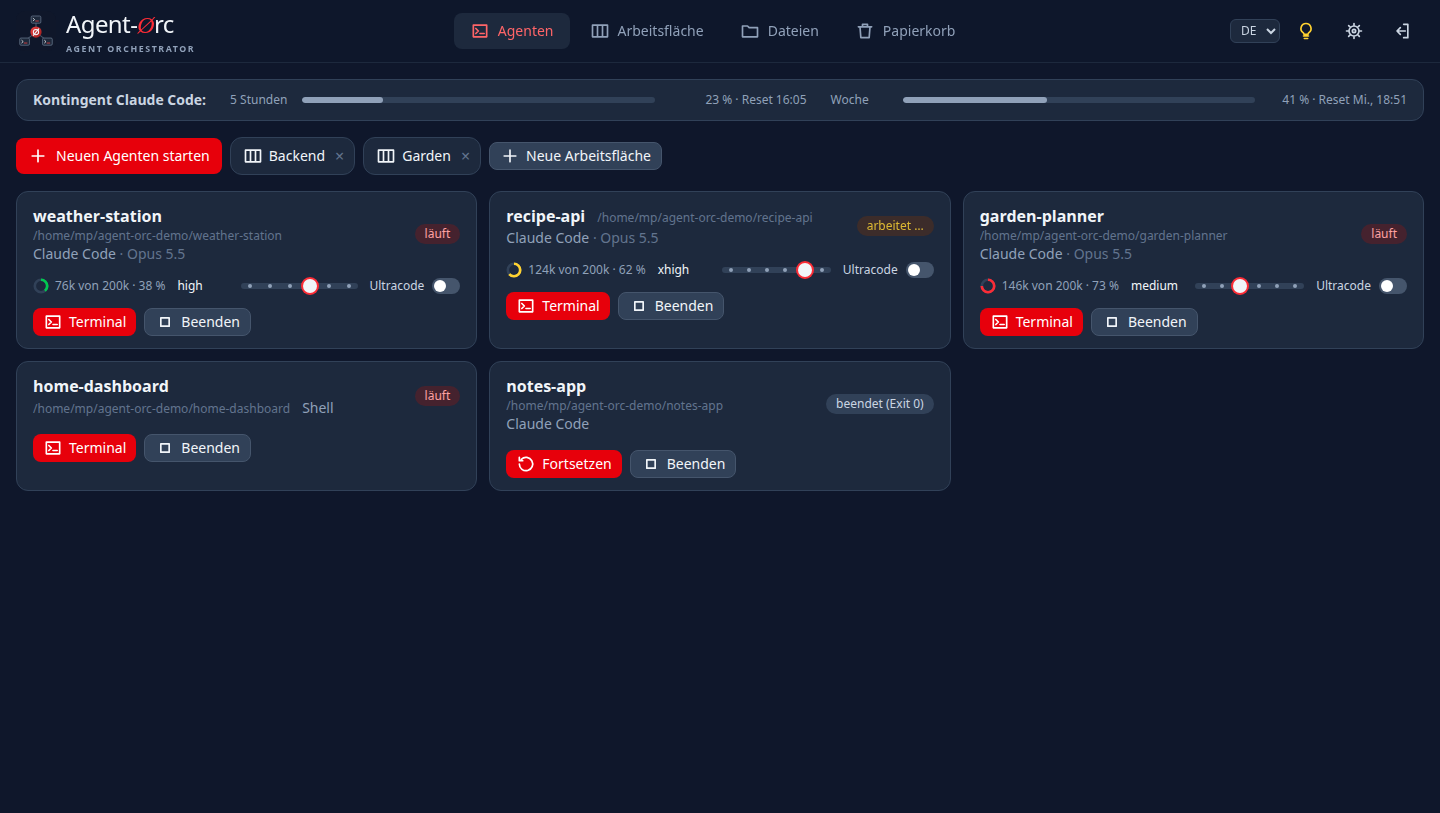
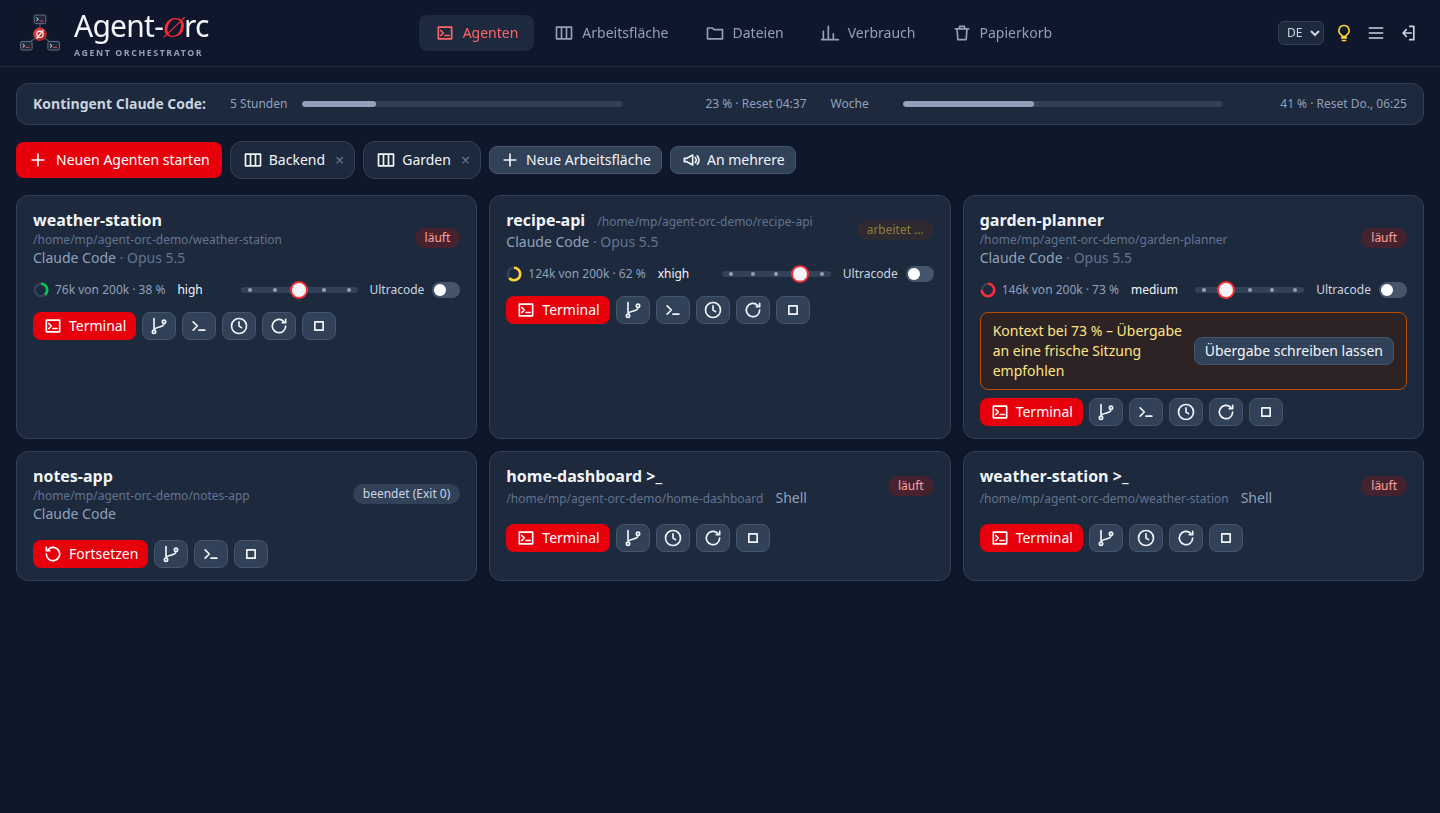
docs: Readme-Screenshots und Texte auf den aktuellen Stand
Neue Screenshots (Übersicht mit Knopfleiste und Terminal-Karten,
Arbeitsfläche mit Agent und Terminal nebeneinander, Handy mit ⋮-Menü),
dazu Freigaben auf der Karte, Profile mit Modellwahl und das ⋮-Menü
am Handy; die Sondertasten-Zeile neu umbrochen.

Claude-Session: https://claude.ai/code/session_01FfsBdbdqiuSRRkX2M1bLzB

diff --git a/README.md b/README.md
@@ -35,6 +35,12 @@ detaches: the agents keep working, and you pick them up again from any device.
 - Notifications on your phone or desktop when an agent is done or waits for a permission or an
   answer (Web Push, switched on per device); tapping one opens the agent.
 - The permission mode an agent starts in, per project (ask, edit, auto, plan; auto by default).
+  When an agent asks for permission, its card shows the command with “Allow” and “Deny”; the
+  first answer counts, on the card or in the terminal.
+- Profiles with a choice of models: through a small start script, Claude Code also runs on
+  local models (e.g. vLLM or llama-swap) or with other providers. The start dialog then offers
+  the models and their reasoning levels, with a note per model (such as how long it is free to
+  use); the comments of the default config hold an example.
 - An agent can start in a git worktree of its own (a second working copy on a new branch), so
   two agents can work on one project; removed again once it has ended, without losing work.
 - Restart (⟳) with the conversation resumed, schedule prompts for later, and carry on by
@@ -51,10 +57,11 @@ detaches: the agents keep working, and you pick them up again from any device.
 - Shortcuts on a computer: Alt+Shift+1 … 9 for the columns, Alt+Shift+← / → for the
   workspaces.
 - On a phone one column at a time: a sideways swipe in the terminal brings the next; a
-  fullscreen shows terminal and input field only, and the extra keys fold away.
+  fullscreen shows terminal and input field only, the extra keys fold away, and a terminal's
+  actions sit behind ⋮.
 
 <p align="center">
-  <img src="docs/screenshots/workspace-en.png" alt="Workspace with two agents side by side" width="860">
+  <img src="docs/screenshots/workspace-en.png" alt="Workspace with an agent and its terminal side by side" width="860">
 </p>
 
 **Terminal**
@@ -68,8 +75,8 @@ detaches: the agents keep working, and you pick them up again from any device.
   simply pasted with Ctrl+V) or a file: it lands in the project folder, shows as a small preview
   above the input field and goes to the agent with the next message.
 - Extra-keys bar (Esc, Tab, Shift+Tab, arrows, sticky Ctrl/Alt, …) for the on-screen keyboard,
-  a jog grip for fast scrolling, one font size per device, freely arranged extra keys with text keys (macros), a text view for selecting and copying,
-  clickable links.
+  freely arranged and with text keys (macros); a jog grip for fast scrolling, one font size per
+  device, a text view for selecting and copying, clickable links.
 
 **Files and more**
 - Browse, edit and trash files in your project folders; Markdown as a preview, pictures as

diff --git a/README.de.md b/README.de.md
@@ -39,7 +39,13 @@ aus wieder aufnehmen.
 - Benachrichtigungen aufs Handy oder den Rechner, wenn ein Agent fertig ist oder auf eine
   Freigabe oder Antwort wartet (Web Push, pro Gerät einschaltbar); Antippen öffnet den Agenten.
 - Der Freigabe-Modus, in dem ein Agent startet, pro Projekt (Fragen, Bearbeiten, Auto, Planen;
-  Voreinstellung Auto).
+  Voreinstellung Auto). Fragt ein Agent um Erlaubnis, zeigt seine Karte den Befehl mit
+  „Erlauben“ und „Ablehnen“; es gilt die Antwort, die zuerst kommt, auf der Karte oder im
+  Terminal.
+- Profile mit Modellwahl: Über ein kleines Startskript läuft Claude Code auch mit lokalen
+  Modellen (z. B. vLLM oder llama-swap) oder bei anderen Anbietern. Der Startdialog bietet dann
+  die Modelle und ihre Denkstufen an, mit einem Hinweis je Modell (etwa wie lange es frei
+  nutzbar ist); ein Beispiel steht in den Kommentaren der Standard-Config.
 - Ein Agent kann in einem eigenen Git-Worktree starten (zweite Arbeitskopie auf einem neuen
   Branch), damit zwei Agenten an einem Projekt arbeiten können; danach wird er wieder
   entfernt, ohne Arbeit zu verlieren.
@@ -58,10 +64,11 @@ aus wieder aufnehmen.
 - Tastenkürzel am Rechner: Alt+Umschalt+1 … 9 für die Spalten, Alt+Umschalt+← / → für die
   Arbeitsflächen.
 - Am Handy eine Spalte auf einmal: seitlich im Terminal wischen holt die nächste; ein Vollbild
-  zeigt nur Terminal und Eingabefeld, die Sondertasten lassen sich einklappen.
+  zeigt nur Terminal und Eingabefeld, die Sondertasten lassen sich einklappen, und die Aktionen
+  eines Terminals liegen hinter ⋮.
 
 <p align="center">
-  <img src="docs/screenshots/workspace-de.png" alt="Arbeitsfläche mit zwei Agenten nebeneinander" width="860">
+  <img src="docs/screenshots/workspace-de.png" alt="Arbeitsfläche mit einem Agenten und seinem Terminal nebeneinander" width="860">
 </p>
 
 **Terminal**
@@ -75,8 +82,9 @@ aus wieder aufnehmen.
   eingefügt) oder Datei anhängen: Sie landen im Projektordner, erscheinen als kleine Vorschau
   über dem Eingabefeld und gehen mit der nächsten Nachricht an den Agenten.
 - Sondertasten-Leiste (Esc, Tab, Shift+Tab, Pfeile, einrastendes Strg/Alt, …) für die
-  Bildschirmtastatur, ein Griff zum schnellen Scrollen, eine Schriftgröße pro Gerät, frei anpassbare Sondertasten mit Text-Tasten (Makros), eine
-  Textansicht zum Markieren und Kopieren, anklickbare Links.
+  Bildschirmtastatur, frei anpassbar und mit Text-Tasten (Makros); ein Griff zum schnellen
+  Scrollen, eine Schriftgröße pro Gerät, eine Textansicht zum Markieren und Kopieren,
+  anklickbare Links.
 
 **Dateien und mehr**
 - Dateien in den Projektordnern durchsuchen, bearbeiten und in den Papierkorb legen;
